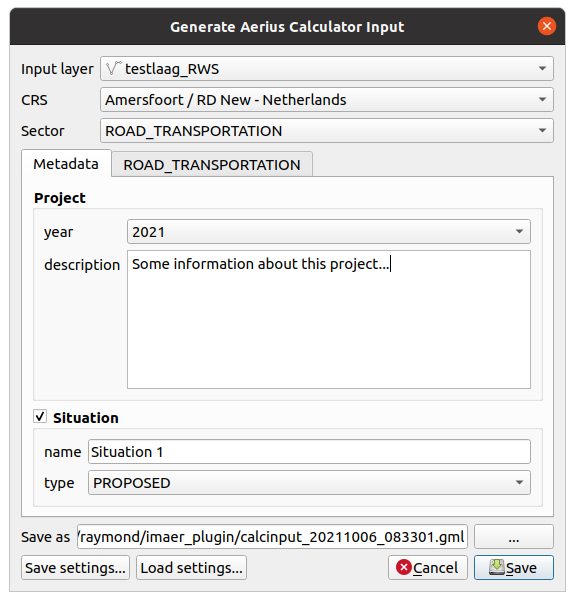
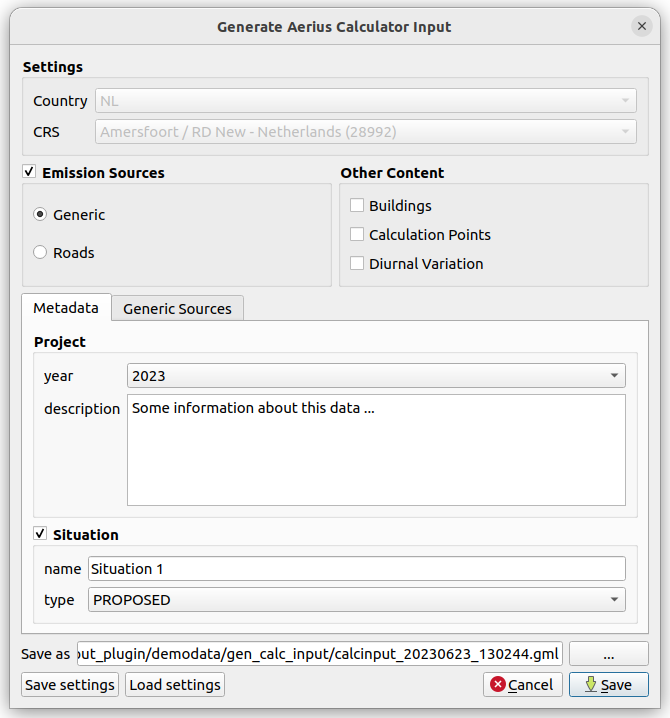
Updated Generate GML documentation

Changed region(s): [[0.0, 0.0, 1.0, 1.0]]

diff --git a/docs/04_generate_calc_input.md b/docs/04_generate_calc_input.md
@@ -13,22 +13,56 @@
 
 # Generate Calculator Input
 
-Convert your emission source data into an IMAER GML file which can be used as AERIUS Calculator input.
+Convert your emission source data from a QGIS layer into an IMAER GML file which can be used as AERIUS Calculator input.
 
-## Howto
+## Emission Sources
 
 Open your emission data as a regular vector layer in QGIS. The geometries can be points,
 lines or polygons.
 
 ![dialog](img/generate_aerius_calculator_input_dlg_2.png)
 
-1. Click the Generate input GML button to open the dialog for generating Calculator input GML.
-2. Choose the layer with your input data and coordinate reference system (CRS).
-3. Choose the sector for your data. Currently only 2 sectors are available, `ROAD_TRANSPORTATION` and `OTHER` (for generic emission sources).
-4. In both the Metadata and Sector tabs, choose the fields from your layer for every variable you want to store in the GML file.
-5. Choose a file name for your GML file. The dialog will suggest a name including the current date and time (like `calcinput_20200907_193245.gml`)
+1. Make sure your Country and CRS are set to the right values. If not, change them in the plugin configuration dialog.
+2. Click the Generate IMAER Calculator input GML button to open the dialog for generating Calculator input GML.
+3. Choose the emission source type for your data. Currently only 2 sectors are available, `Roads` and `Generic` (for generic emission sources).
+4. In both the Metadata and Emission Source tabs, choose the fields from your layer for every variable you want to store in the GML file.
+5. Choose a file name for your GML file. The dialog will suggest a name including the current date and time (like `calcinput_20230623_130244.gml`)
+
+![dialog](img/generate_aerius_calculator_input_dlg_es.png)
 
 After pressing Save, the GML file will be generated. A link to the file will be displayed in the message bar on top of your map. If anything goes wrong, an error will be displayed there.
+
+## Other Content
+
+You can also generate other information to GML, such as buildings and calculation points.
+
+### Buildings
+
+![dialog](img/generate_aerius_calculator_input_dlg_bld.png)
+
+Buildings can either be created from a (single) polygon layer or a point layer containing
+a diameter value (for circular buildings).
+
+The id field should contain the same integer value as used in the emission source pointing to it. The
+generated GML will automatically contain the right localId values referring to the buildings.
+
+### Calculation Points
+
+![dialog](img/generate_aerius_calculator_input_dlg_cp.png)
+
+Those are typically stand alone GML files to upload to AERIUS Connect for calulating depositions
+at your own locations. The input must be a point layer.
+
+### Diurnal Variation
+
+![dialog](img/generate_aerius_calculator_input_dlg_dv.png)
+
+Diurnal variation profiles are not created from a layer (as there is no geometry needed) but by hand
+from a semicolon separated value table.
+
+The three values per hour of the day are for mon-fri ; saturday ; sunday. In total there should b 72 values (24h x 7d).
+
+The id field should contain the same integer value as used in the emission source pointing to it.
 
 ## Saving and loading settings
 
